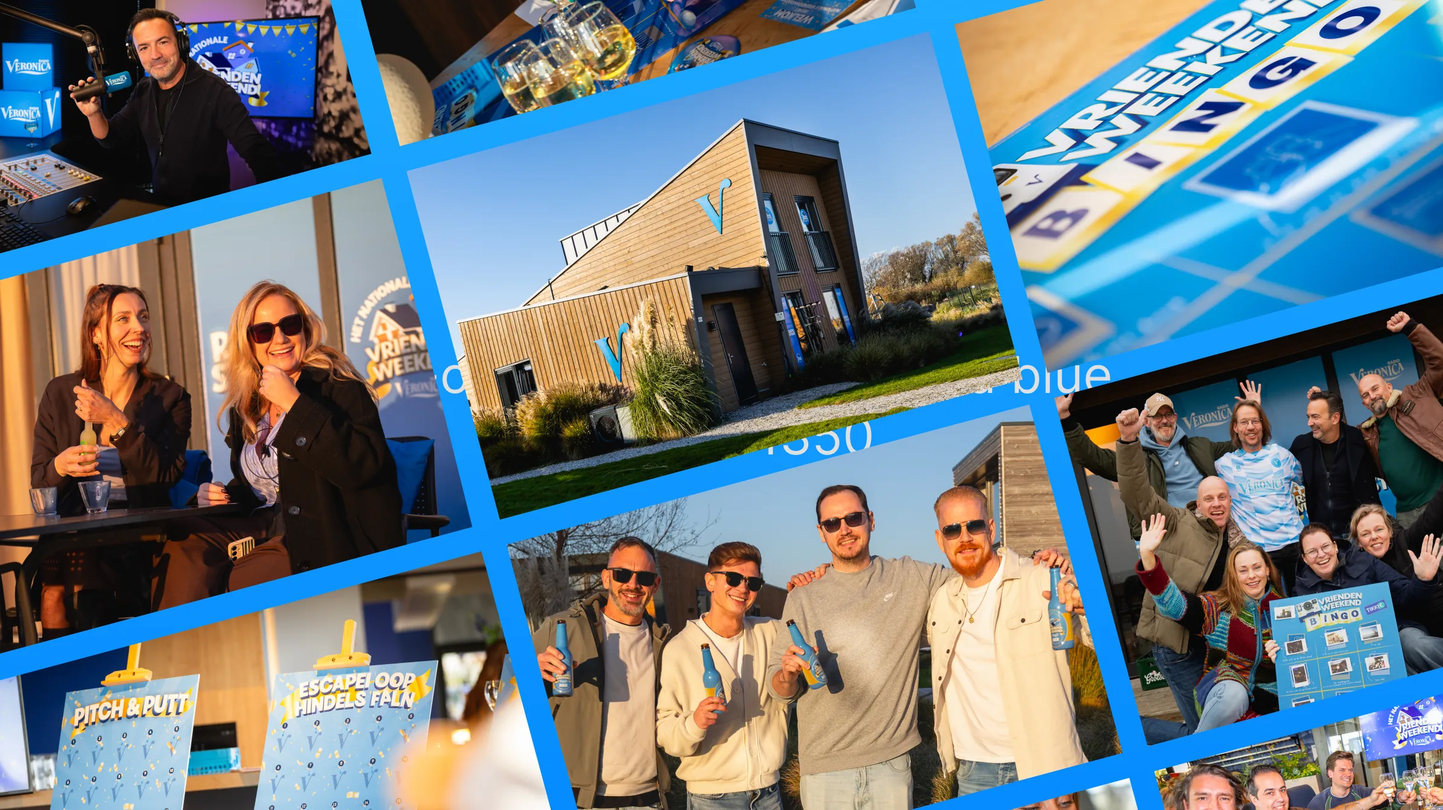
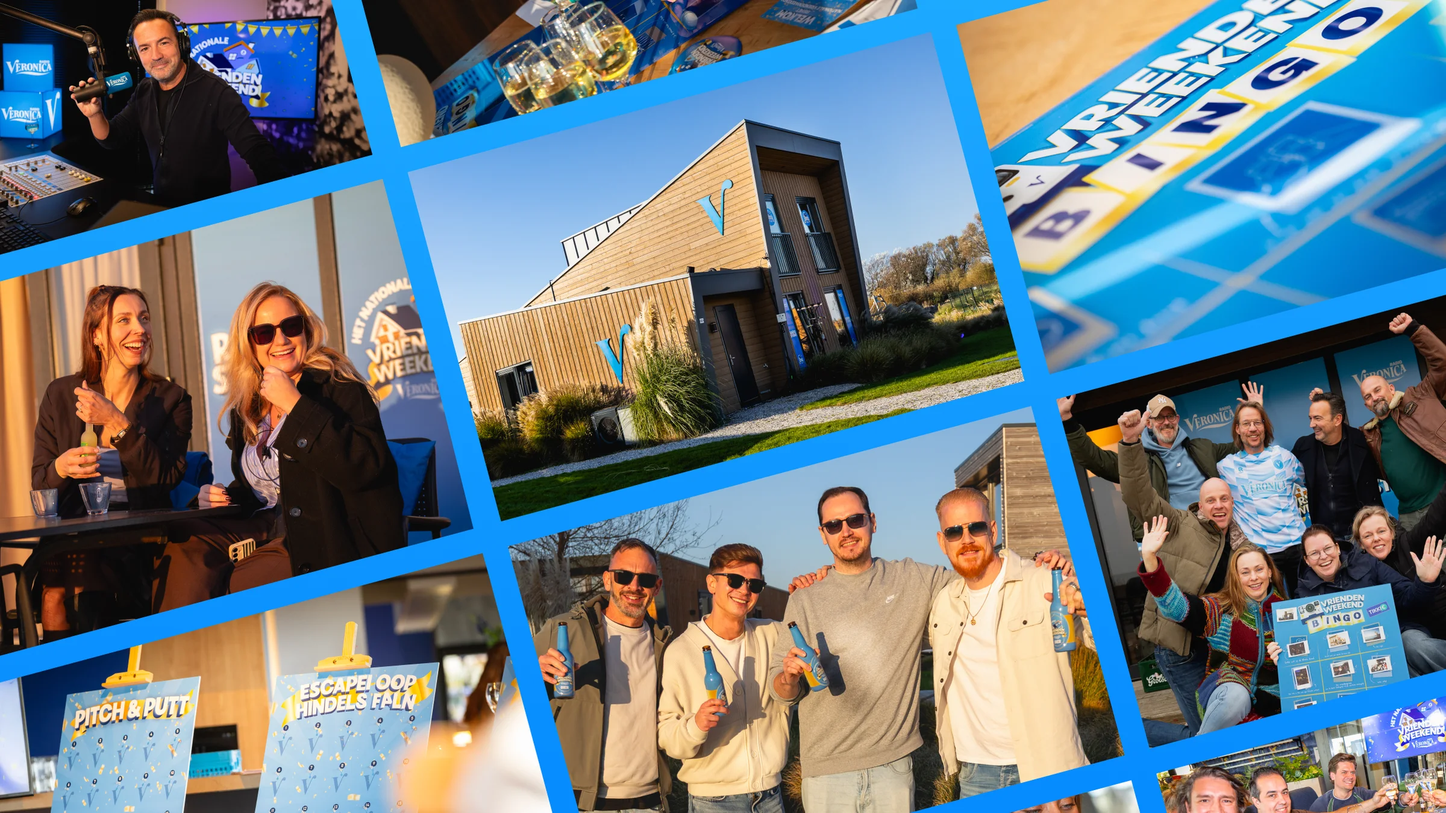
Vriendenweekend: updated roll-out canvas
Claude-Session: https://claude.ai/code/session_01NWkD1kBAMcB3pyjinMvoT7

diff --git a/css/js/projects.js b/css/js/projects.js
@@ -142,7 +142,7 @@ const projectsData = {
       { type: "section", heading: "The roll-out", text: [
         "From one logo to everything the weekend touched: print, display and social campaigns, studio screens, web, and branded beer and champagne bottles for the weekend itself."
       ]},
-      { type: "canvas", item: { src: "Assets/Projecten/Vriendenweekend/web/rollout-canvas.webp", alt: "The weekend in photos: studio, house, bingo, bottles and friends", caption: "The weekend itself. Photos: Jeroen Zondag" } },
+      { type: "canvas", item: { src: "Assets/Projecten/Vriendenweekend/web/rollout-canvas.webp?v=2", alt: "The weekend in photos: studio, house, bingo, bottles and friends", caption: "The weekend itself. Photos: Jeroen Zondag" } },
       { type: "split", items: [
         { src: "Assets/Projecten/Vriendenweekend/web/bingo-table.webp", alt: "Bingo board, welcome card, coaster and cava on the table", caption: "Bingo board, welcome card and coaster" },
         { src: "Assets/Projecten/Vriendenweekend/web/signs-easels.webp", alt: "Pitch & Putt and Escape signs on easels", caption: "Activity signs" }

diff --git a/index.html b/index.html
@@ -86,7 +86,7 @@
             <!-- Highlights are built automatically from css/js/projects.js (projects with a "highlight" block) -->
           </div>
 
-          <script src="css/js/projects.js?v=20261124zz"></script>
+          <script src="css/js/projects.js?v=20261124zy"></script>
           <script>
             // Build the homepage highlights from projects.js
             (function buildHighlights() {

diff --git a/project.html b/project.html
@@ -73,7 +73,7 @@
     </div>
 
     <!-- Data en Script -->
-    <script src="css/js/projects.js?v=20261124zz"></script>
+    <script src="css/js/projects.js?v=20261124zy"></script>
     <script src="css/js/brands-data.js?v=20261123y"></script>
     <script src="css/js/brands.js?v=20261124b"></script>
     <script src="css/js/banners-data.js?v=20261124j"></script>

diff --git a/work.html b/work.html
@@ -152,7 +152,7 @@
     </footer>
   </div>
 
-  <script src="css/js/projects.js?v=20261124zz"></script>
+  <script src="css/js/projects.js?v=20261124zy"></script>
   <script>
     // Build project cards from projects.js. Only "live" projects are shown.
     (function buildProjectGrid() {
